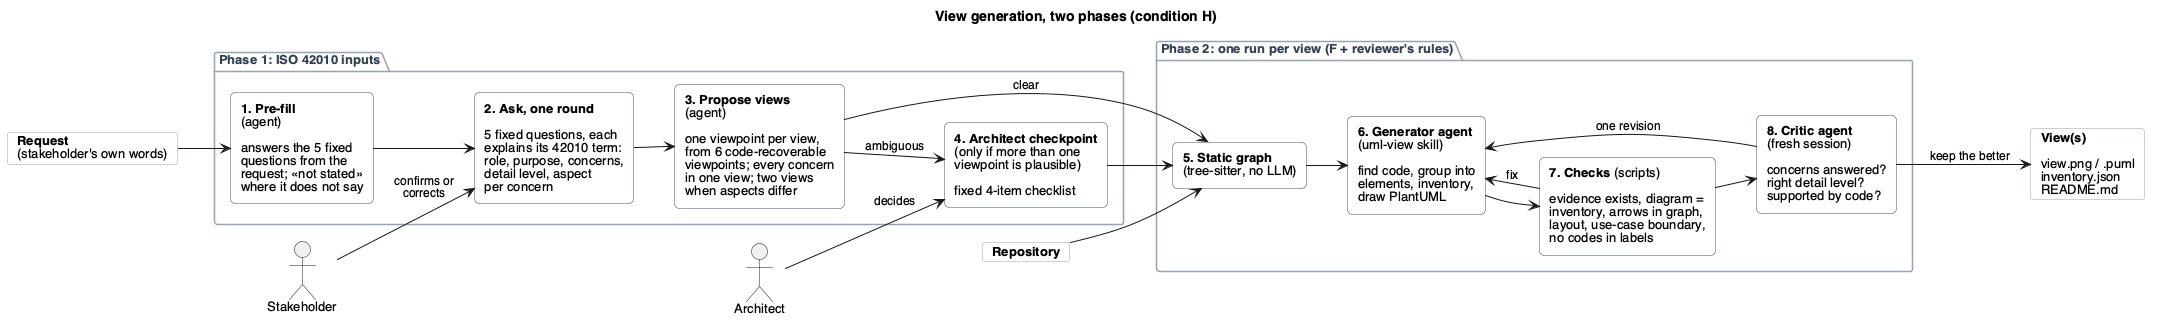
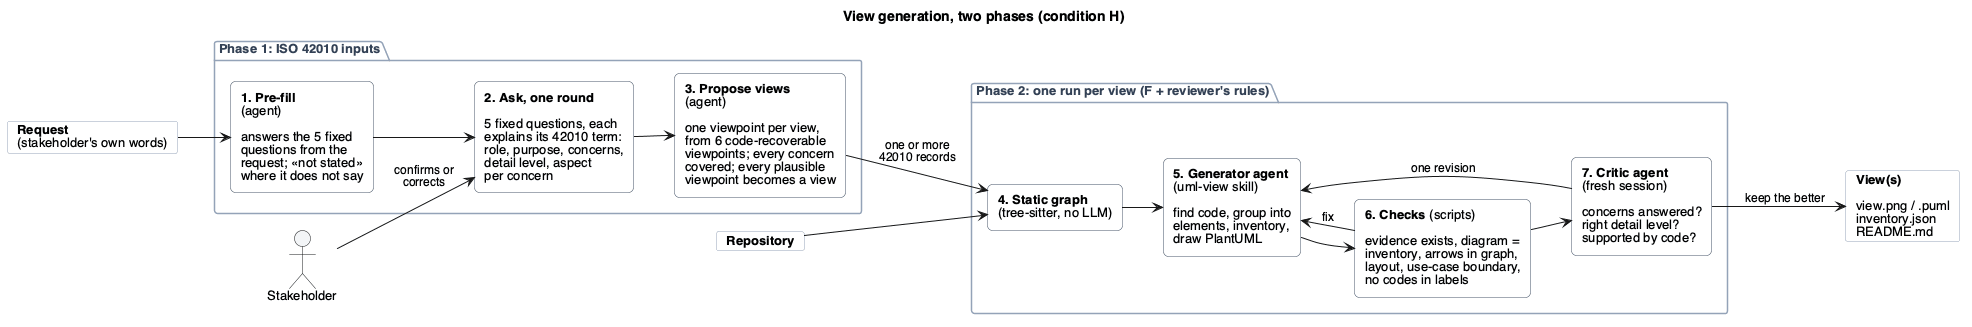
Phase 1: every plausible viewpoint becomes a view; architect checkpoint removed

diff --git a/experiments/view-generation-2026-10/elicit.py b/experiments/view-generation-2026-10/elicit.py
@@ -6,17 +6,14 @@ For each case of inputs.yaml:
                simulated stakeholder (default) that knows only the case's long request text (original_request
                when there is one, else request); the agent sees only `request`
   3. proposal  the agent proposes the views: one viewpoint per view from elicit/viewpoints.yaml, every concern in
-               exactly one view, with alternatives when another viewpoint is about as plausible
-  4. record    a 42010 input record per view (case id, then case-2, case-3 ...) in inputs-elicited.yaml
-
-Architect checkpoint: a case whose proposal lists an alternative viewpoint is ambiguous. It goes into
-architect-checkpoint.md with a fixed checklist; the architect's answers go into architect.yaml (same folder) and
-override the proposal on the next run. Until then the case is generated with the agent's proposal and marked
-`checkpoint: pending`.
+               at least one view, and any other viewpoint that answers a concern about as well ("also")
+  4. record    every proposed viewpoint becomes a view: no choice is forced where two are plausible, so a task
+               may get several views (case, case-2, ...); views with the same viewpoint are merged. One 42010
+               input record per view in inputs-elicited.yaml
 
     cd Task2View/code && .venv/bin/python ../experiments/view-generation-2026-10/elicit.py [--only CASE] [--ask] [--redo]
 
-The hand-made inputs.yaml stays the reference; compare.py-style agreement is printed at the end.
+The hand-made inputs.yaml stays the reference: the hand-made viewpoint is printed next to the proposed ones.
 """
 
 from __future__ import annotations
@@ -82,7 +79,21 @@ def ask_person(qs: list[dict], prefill: dict) -> dict:
     return answers
 
 
-def records(case: str, c: dict, answers: dict, views: list[dict], vps: dict, checkpoint: str) -> dict:
+def expand(views: list[dict]) -> list[dict]:
+    """Every proposed viewpoint becomes a view; views with the same viewpoint are merged."""
+    out: dict[str, dict] = {}
+    for v in views:
+        for vp, why, role in [(v["viewpoint"], v.get("reason"), "chosen")] + \
+                [(a["viewpoint"], a.get("reason"), "also") for a in v.get("also", [])]:
+            w = out.setdefault(vp, {"viewpoint": vp, "concern": v["concern"], "concern_details": [], "reasons": [],
+                                    "role": role})
+            w["concern_details"] += [d for d in v["concern_details"] if d not in w["concern_details"]]
+            w["reasons"].append(why)
+            w["role"] = "chosen" if "chosen" in (w["role"], role) else "also"
+    return sorted(out.values(), key=lambda w: w["role"] != "chosen")
+
+
+def records(case: str, c: dict, answers: dict, views: list[dict], vps: dict) -> dict:
     """One 42010 input record per proposed view, in the shape of inputs.yaml."""
     out = {}
     for i, v in enumerate(views, 1):
@@ -99,49 +110,11 @@ def records(case: str, c: dict, answers: dict, views: list[dict], vps: dict, che
             "aspect": vp["aspect"],
             "viewpoint": v["viewpoint"],
             "model_kind": vp["model_kind"],
-            "elicitation": {"reason": v.get("reason"), "alternatives": v.get("alternatives", []),
-                            "views_for_request": len(views), "checkpoint": checkpoint,
+            "elicitation": {"reasons": v["reasons"], "role": v["role"], "views_for_request": len(views),
                             "detail_level_stated": answers.get("detail_level") in ("overview", "balanced", "detailed")},
         }
     return out
 
-
-CHECKLIST = """Checklist (answer in architect.yaml under the case id):
-1. Does every concern have a view that answers it?
-2. Is each view's viewpoint the right one for its concerns? If not, which one (ids above)?
-3. Is the detail level right for this stakeholder and purpose?
-4. Does any concern need information that is not in the code (intent, rationale, runtime behaviour)?"""
-
-
-def checkpoint_md(pending: dict) -> str:
-    parts = ["# Architect checkpoint\n",
-             "Cases where the agent found more than one plausible viewpoint. Viewpoint ids: "
-             + ", ".join(yaml.safe_load((EL / "viewpoints.yaml").read_text())["viewpoints"]) + ".\n",
-             "Reply in `architect.yaml`, e.g.\n```yaml\nIS-seat-L1:\n  decision: approve   # or change\n"
-             "  views:            # only for change: the views you want, each with its concerns\n"
-             "    - viewpoint: component\n      concern_details: [\"...\"]\n"
-             "  detail_level: overview   # optional\n  not_in_code: \"...\"   # optional\n```\n"]
-    for case, (c, answers, views) in pending.items():
-        parts.append(f"\n## {case}\n\n**Request:** {c['request']}\n\n**Stakeholder's answers:** role "
-                     f"{answers.get('stakeholder')}; purpose {answers.get('perspective')}; detail level "
-                     f"{answers.get('detail_level')}\n")
-        for v in views:
-            parts.append(f"\n**Proposed view: {v['viewpoint']}** ({v['concern']})  \nConcerns: "
-                         + "; ".join(v["concern_details"]) + f"  \nWhy: {v.get('reason')}\n")
-            for a in v.get("alternatives", []):
-                parts.append(f"- alternative **{a['viewpoint']}**: {a['reason']}\n")
-        parts.append("\n" + CHECKLIST + "\n")
-    return "".join(parts)
-
-
-def apply_architect(views: list[dict], answers: dict, decision: dict) -> tuple[list[dict], dict]:
-    if decision.get("detail_level"):
-        answers = {**answers, "detail_level": decision["detail_level"]}
-    if decision.get("decision") == "change" and decision.get("views"):
-        views = [{"viewpoint": v["viewpoint"], "concern": v.get("concern", views[0]["concern"]),
-                  "concern_details": v["concern_details"], "reason": "architect", "alternatives": []}
-                 for v in decision["views"]]
-    return views, answers
 
 
 def main() -> int:
@@ -155,9 +128,7 @@ def main() -> int:
     vps = yaml.safe_load((EL / "viewpoints.yaml").read_text())["viewpoints"]
     vp_text = "\n".join(f"- {k}: {v['model_kind']}; shows {v['shows']}; frames aspects {', '.join(v['frames'])}"
                         for k, v in vps.items())
-    arch_file = HERE / "architect.yaml"
-    architect = yaml.safe_load(arch_file.read_text()) or {} if arch_file.exists() else {}
-    elicited, pending = {}, {}
+    elicited = {}
     for case, c in sheet["cases"].items():
         if args.only and case != args.only:
             continue
@@ -182,27 +153,18 @@ def main() -> int:
         proposal = step("proposal", lambda: ask_model((EL / "propose.txt").read_text().format(
             entity=entity, request=c["request"], answers=json.dumps(answers, indent=2), viewpoints=vp_text),
             AGENT_MODEL))
-        views = [v for v in proposal["views"] if v.get("viewpoint") in vps]
-        ambiguous = any(v.get("alternatives") for v in views)
-        if case in architect:
-            views, answers = apply_architect(views, answers, architect[case])
-            checkpoint = f"architect: {architect[case].get('decision')}"
-        else:
-            checkpoint = "pending" if ambiguous else "not needed"
-            if ambiguous:
-                pending[case] = (c, answers, views)
-        elicited.update(records(case, c, answers, views, vps, checkpoint))
-        print(f"{case}: " + " + ".join(v["viewpoint"] for v in views) + f"  [{checkpoint}]  "
-              f"(hand-made: {c['viewpoint']})", flush=True)
+        for v in proposal["views"]:
+            v["also"] = [a for a in v.get("also", []) if a.get("viewpoint") in vps]
+        views = expand([v for v in proposal["views"] if v.get("viewpoint") in vps])
+        elicited.update(records(case, c, answers, views, vps))
+        print(f"{case}: " + " + ".join(f"{v['viewpoint']}{'' if v['role'] == 'chosen' else ' (also)'}" for v in views)
+              + f"   hand-made: {c['viewpoint']}", flush=True)
     target = HERE / "inputs-elicited.yaml"
     old = yaml.safe_load(target.read_text()) if target.exists() and args.only else {}
     cases = {**(old or {}).get("cases", {}), **elicited}
-    target.write_text("# Written by elicit.py (Phase 1); do not edit by hand. Corrections go into architect.yaml.\n"
+    target.write_text("# Written by elicit.py (Phase 1); do not edit by hand.\n"
                       + yaml.safe_dump({"entities_of_interest": sheet["entities_of_interest"], "cases": cases},
                                        sort_keys=False, allow_unicode=True, width=110), encoding="utf-8")
-    if pending:
-        (HERE / "architect-checkpoint.md").write_text(checkpoint_md(pending), encoding="utf-8")
-        print(f"{len(pending)} case(s) need the architect: architect-checkpoint.md")
     return 0
 
 

diff --git a/experiments/view-generation-2026-10/run_generate.py b/experiments/view-generation-2026-10/run_generate.py
@@ -24,10 +24,10 @@ Conditions (--condition):
      revision when a checked blocking finding remains, and the version with fewer checked blocking findings is
      kept (outputs-G/)
   H  F on the inputs elicited in Phase 1 (inputs-elicited.yaml, written by elicit.py: fixed 42010 questions, a
-     stakeholder's answers, the agent's proposed views, an architect checkpoint when more than one viewpoint is
-     plausible), so one request may give two views (case, case-2); the skill adds the reviewer's rules (one
-     viewpoint per view, use-case boundary, plain words instead of codes, styling stereotypes hidden) and
-     check_view.py; no element budget; component views drawn by hand as in F (outputs-H/)
+     stakeholder's answers, the agent's proposed views; every plausible viewpoint becomes a view, so one request
+     may give several views: case, case-2, ...); the skill adds the reviewer's rules (one viewpoint per view,
+     use-case boundary, plain words instead of codes, styling stereotypes hidden) and check_view.py; no element
+     budget; component views drawn by hand as in F (outputs-H/)
 
 B and C ran with the skills as of commit 91dc18a, D with skills, critic.txt and check_inventory.py as of
 e381c51, E as of 137e9ac, F as of 00a3ef1; built-in auto memory is off for every run.
